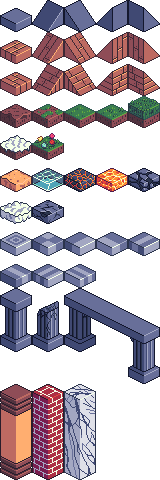
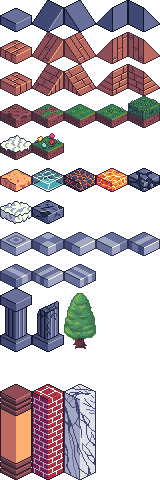
:wrench: improve animations and add tree

Changed region(s): [[0.375, 0.5938, 1.0, 0.8125]]

diff --git a/src/main.cpp b/src/main.cpp
@@ -248,6 +248,7 @@ int main( int argc, char* args[] )
 
                 // While application is running
                 while (!quit) {
+                    Uint32 current = SDL_GetTicks();
 
                     while (SDL_PollEvent(&e) != 0) {
                         // User requests quit
@@ -311,8 +312,13 @@ int main( int argc, char* args[] )
                     TileData stackTile = tileMap["ice"];
                     gIsometricSpriteSheetTexture.render(gRenderer, stackPosition.x + offsetx, stackPosition.y + offsety - (stackTile.dimensions.h - 24),&stackTile.dimensions);
 
+
+                    Point treePosition = renderer.mapToScreen({ 13, 11}, 32, 16);
+                    TileData treeTile = tileMap["tree"];
+                    gIsometricSpriteSheetTexture.render(gRenderer, treePosition.x + offsetx, treePosition.y + offsety - (treeTile.dimensions.h - 24),&treeTile.dimensions);
+
                     Point firePosition = renderer.mapToScreen({ 11, 13}, 32, 16);
-                    gAnimatedFire->render(gRenderer, firePosition.x + offsetx, firePosition.y + offsety - ( gAnimatedFire->getHeight() - 24 ) );
+                    gAnimatedFire->render(gRenderer, firePosition.x + offsetx, firePosition.y + offsety - ( gAnimatedFire->getHeight() - 24 ), current );
 
                     //Update screen
                     SDL_RenderPresent(gRenderer);

diff --git a/src/LAnimatedTexture.cpp b/src/LAnimatedTexture.cpp
@@ -5,6 +5,8 @@
 #include <SDL.h>
 #include "LAnimatedTexture.h"
 
+const float ANIMATED_FPS = 10.0f;
+
 LAnimatedTexture::LAnimatedTexture(std::string path, int frameCount, int w, int h, int renderW, int renderH) {
     this->filename = path;
     this->frameCount = frameCount;
@@ -35,10 +37,16 @@ void LAnimatedTexture::load(SDL_Renderer* renderer) {
     }
 }
 
-void LAnimatedTexture::render(SDL_Renderer* renderer, int x, int y ) {
+void LAnimatedTexture::render(SDL_Renderer* renderer, int x, int y, Uint32 currentTicks ) {
     SDL_Rect* currentClip = &gSpriteClips[currentFrame];
     gTexture.render( renderer, x, y, renderW, renderH, currentClip );
-    currentFrame = (currentFrame + 1) % frameCount;
+
+    float dt = (currentTicks - lastUpdate) / 1000.0f;
+    int framesToUpdate = floor(dt / (1.0f / ANIMATED_FPS));
+    if (framesToUpdate > 0) {
+        lastUpdate = currentTicks;
+        currentFrame = (currentFrame + 1) % frameCount;
+    }
 }
 
 int LAnimatedTexture::getHeight() {

diff --git a/src/LAnimatedTexture.h b/src/LAnimatedTexture.h
@@ -19,7 +19,7 @@ public:
 
     void load( SDL_Renderer* renderer );
 
-    void render( SDL_Renderer* renderer, int x, int y );
+    void render( SDL_Renderer* renderer, int x, int y, Uint32 currentTicks );
 
     int getWidth();
     int getHeight();
@@ -28,6 +28,7 @@ private:
     int frameCount, currentFrame, w, h, renderW, renderH;
     LTexture gTexture;
     SDL_Rect *gSpriteClips = NULL;
+    float lastUpdate;
 };
 
 
